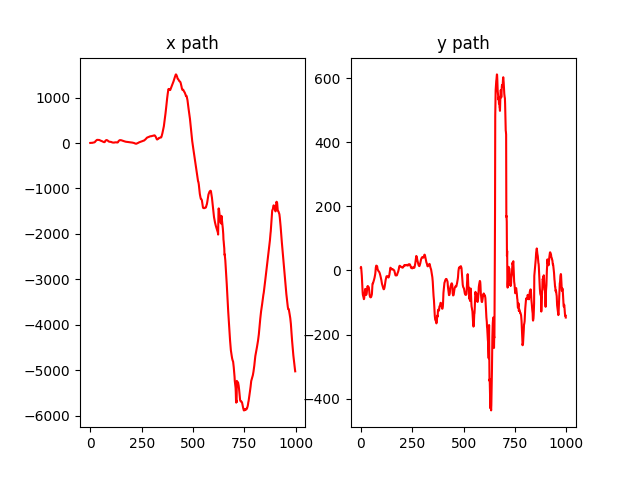
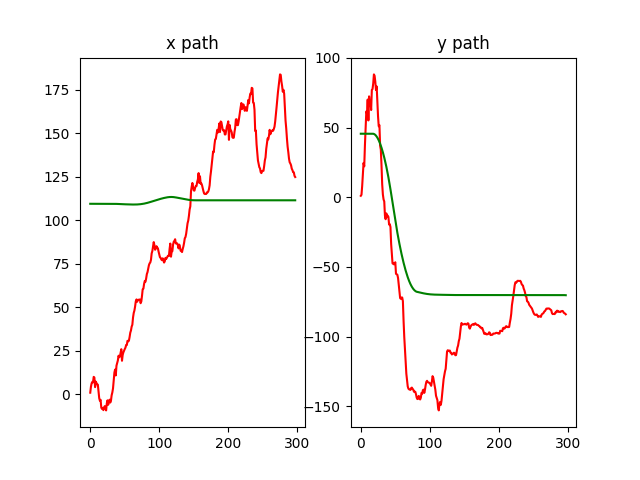
added train motion

diff --git a/src/video_stabilization.py b/src/video_stabilization.py
@@ -70,8 +70,8 @@ def read_frames_from_dir(directory):
   filenames.sort(key=lambda f: int(re.sub('\D', '', f)))
   for file in filenames:
     # the following can be uncommmented to limit the number of frames read
-    # if count >= 300:
-    #   break
+    if count >= 300:
+      break
     frames.append(cv.imread(file))
     count+=1
   print ("read " + str(len(frames)) + " frames from directory")
@@ -315,8 +315,8 @@ def apply_smoothing(original_frames, smooth_path, crop_ratio=0.8):
                             [projected_corners[1][0], projected_corners[1][1]], 
                             [projected_corners[2][0], projected_corners[2][1]],
                             [projected_corners[3][0], projected_corners[3][1]]]).astype(np.float32)
-    H, _ = cv.findHomography(src_corners, dst_corners, cv.RANSAC, 5.0)
-    warp_frame = cv.warpPerspective(original_frames[i], H, (original_frames[i].shape[1], original_frames[i].shape[0]))
+    # H, _ = cv.findHomography(src_corners, dst_corners, cv.RANSAC, 5.0)
+    warp_frame = cv.warpPerspective(original_frames[i], smooth_path[i], (original_frames[i].shape[1], original_frames[i].shape[0]))
     frame_filename = './data/output/frame' + str(i) + '.jpg'
     cv.imwrite(frame_filename, warp_frame)
     new_frames.append(warp_frame)
@@ -347,28 +347,28 @@ def graph_paths(timewise_homographies=[], smooth_path=[]):
     pt = timewise_homographies[i].dot(pt)
     original_x_path[i] = pt[0]
     original_y_path[i] = pt[1]
-    original_dx[i] = timewise_homographies[i][0,2]
-    original_dy[i] = timewise_homographies[i][1,2]
+    # original_dx[i] = timewise_homographies[i][0,2]
+    # original_dy[i] = timewise_homographies[i][1,2]
     smooth_pt = smooth_path[i].dot(pt)
     smooth_x_path[i] = smooth_pt[0]
     smooth_y_path[i] = smooth_pt[1]
-    smooth_dx_path[i] = smooth_path[i][0,2]
-    smooth_dy_path[i] = smooth_path[i][1,2]
+    # smooth_dx_path[i] = smooth_path[i][0,2]
+    # smooth_dy_path[i] = smooth_path[i][1,2]
 
   # place data on the subplots
-  fig, axs = plt.subplots(2,2)
-  axs[0, 0].set_title('x path')
-  axs[0, 0].plot(np.arange(0, n-1), original_x_path, '-r')
-  axs[0, 0].plot(np.arange(0, n-1), smooth_x_path, '-g')
-  axs[0, 1].set_title('y path')
-  axs[0, 1].plot(np.arange(0, n-1), original_y_path, '-r')
-  axs[0, 1].plot(np.arange(0, n-1), smooth_y_path, '-g')
-  axs[1, 0].set_title('dx path')
-  axs[1, 0].plot(np.arange(0, n-1), original_dx, '-r')
-  axs[1, 0].plot(np.arange(0, n-1), smooth_dx_path, '-g')
-  axs[1, 1].set_title('dy path')
-  axs[1, 1].plot(np.arange(0, n-1), original_dy, '-r')
-  axs[1, 1].plot(np.arange(0, n-1), smooth_dy_path, '-g')
+  fig, axs = plt.subplots(1,2)
+  axs[0].set_title('x path')
+  axs[0].plot(np.arange(0, n-1), original_x_path, '-r')
+  axs[0].plot(np.arange(0, n-1), smooth_x_path, '-g')
+  axs[1].set_title('y path')
+  axs[1].plot(np.arange(0, n-1), original_y_path, '-r')
+  axs[1].plot(np.arange(0, n-1), smooth_y_path, '-g')
+  # axs[1, 0].set_title('dx path')
+  # axs[1, 0].plot(np.arange(0, n-1), original_dx, '-r')
+  # axs[1, 0].plot(np.arange(0, n-1), smooth_dx_path, '-g')
+  # axs[1, 1].set_title('dy path')
+  # axs[1, 1].plot(np.arange(0, n-1), original_dy, '-r')
+  # axs[1, 1].plot(np.arange(0, n-1), smooth_dy_path, '-g')
   plt.savefig('motion.png')
   plt.show()
 
